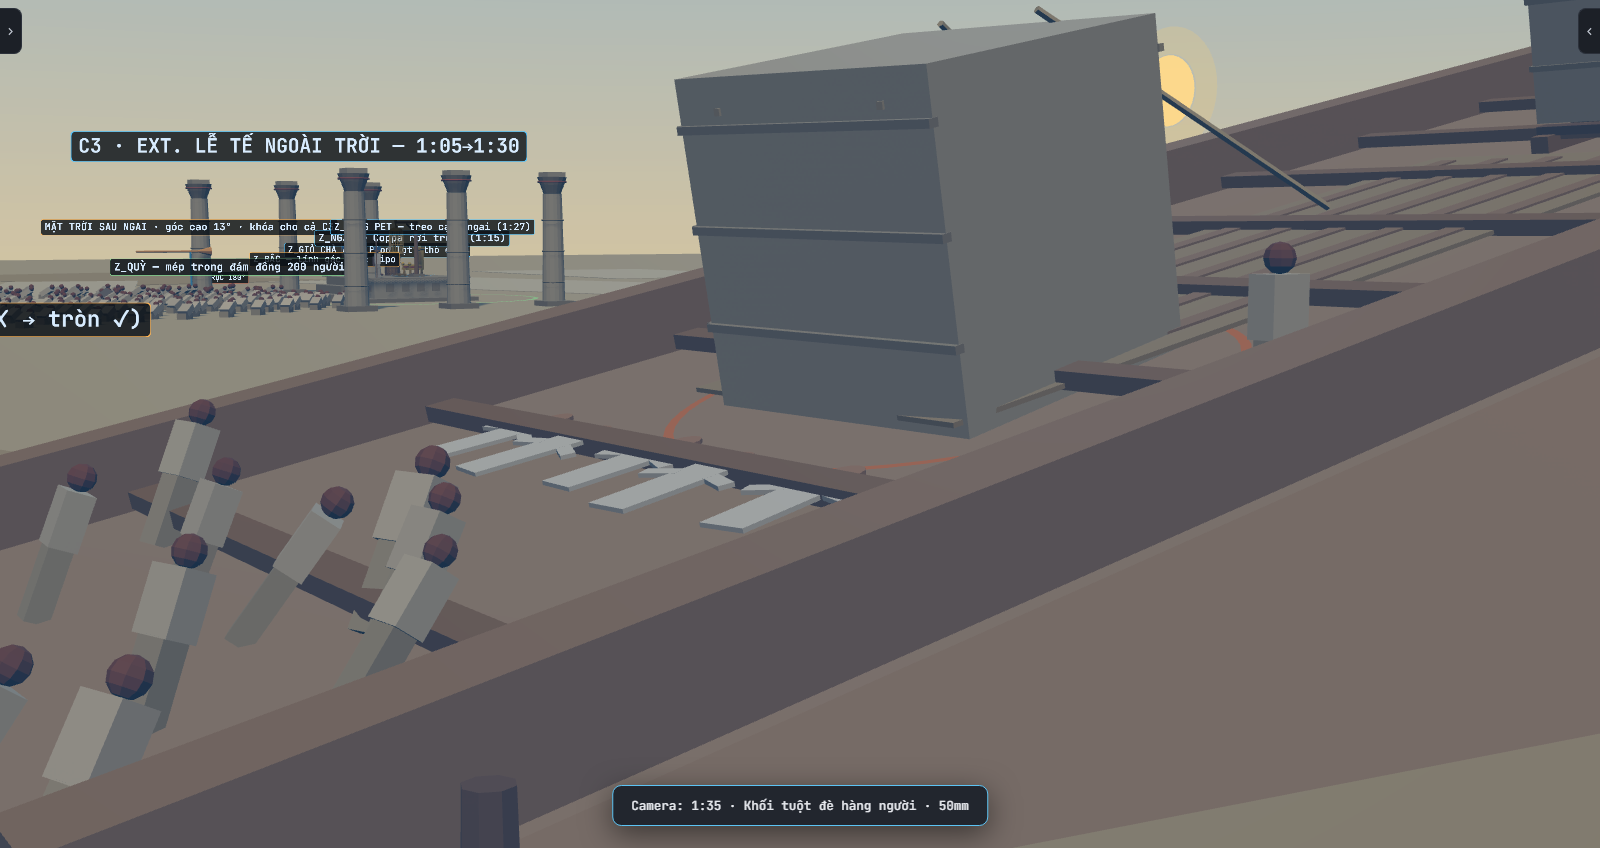
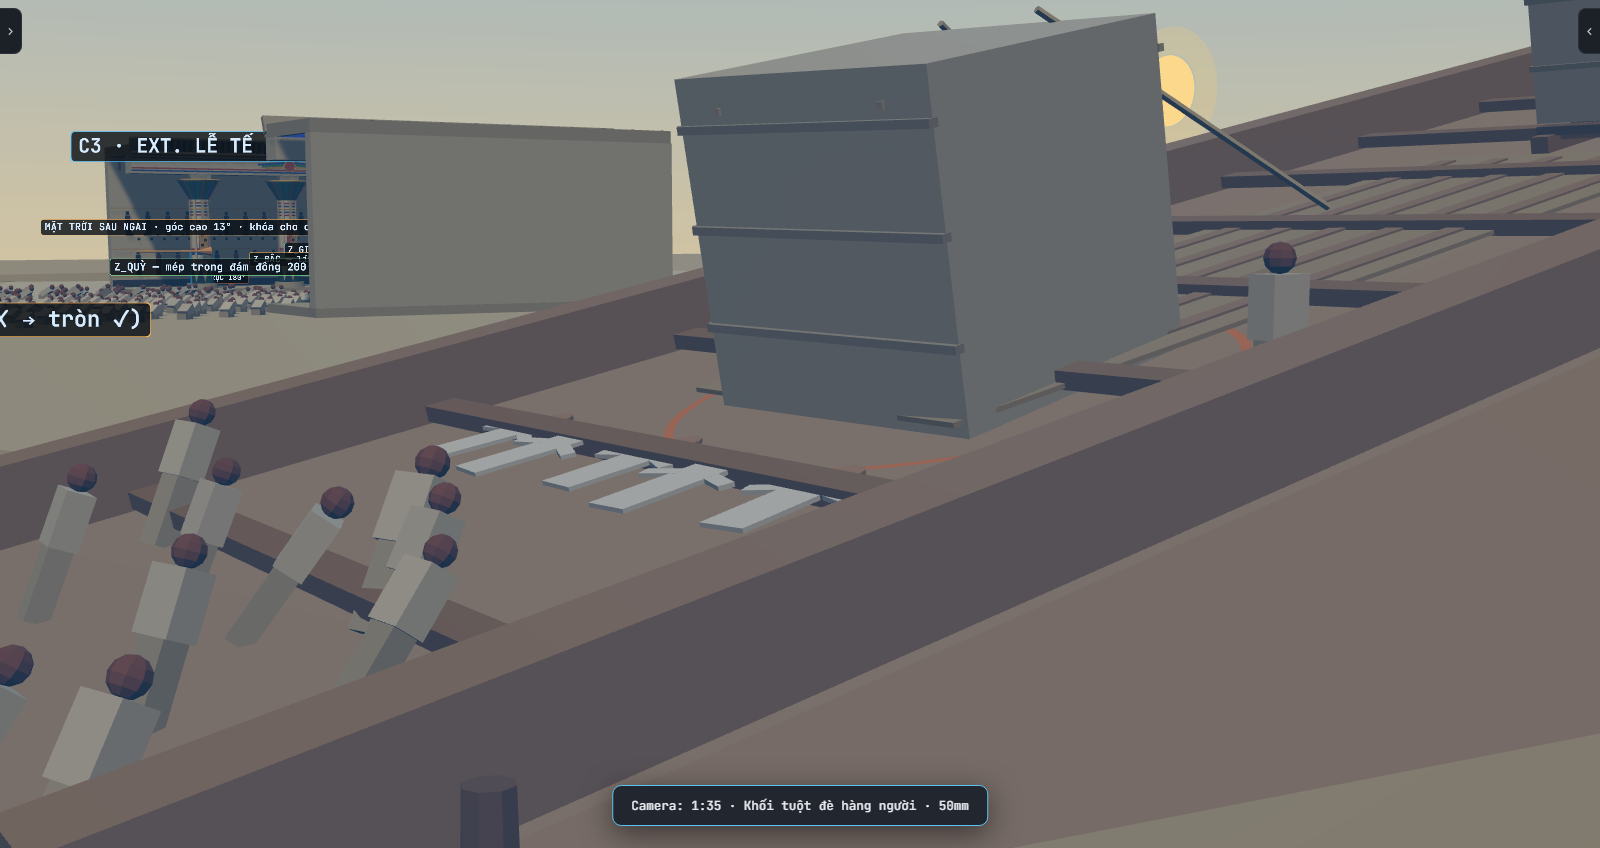
C3: hanh lang cot co mai kieu den Ai Cap thoi thinh thay cho hang cot tro troi
Hang 3 cot dung tro troi la hinh anh PHE TICH (mai va dam da sap). Canh le
te dien ra luc Ai Cap dang thinh nen doi thanh hanh lang cot (portico) hai
ben san te, san giua van LO THIEN -> mat troi sau ngai va anh nguoc sang
cua Coppa giu nguyen.

Moi ben (8 phan co ten, tach/tat rieng duoc):
- Nen hanh lang + bac xuong san
- 3 cot papyrus: tron da o chan, than bo coi 8 song doc, be la nhon om
  chan son xanh la/xanh lam, dai mau buoc bo, o cartouche vang vien do co
  chu tuong hinh huong ra san, dau cot papyrus NO LOE (xanh la, gan son,
  vanh vang), khoi do vuong
- Dam da noi dau cot, dai son + dia mat troi co canh va hai ran uraeus
- Go cornice lom kieu Ai Cap: go tron + mai hat nghieng, soc la doc
- Mai da phang lat tam + tran son xanh rac sao vang 8 canh (son tu sang de
  nhin tu duoi len van doc duoc)
- Tuong sau: chan tuong den, dien kheker, hai tang phu dieu doan nguoi dang
  le + hang chu tuong hinh
Ben phai dat ry = pi. Chi tiet lap lai dung InstancedMesh: 127 lenh ve moi
ben. Muon canh phe tich: tach phan "Mai da" ra roi xoa.

Changed region(s): [[0.0625, 0.1226, 0.4375, 0.3986]]

diff --git a/jenny-pixel-studio.html b/jenny-pixel-studio.html
@@ -3095,22 +3095,143 @@ function buildCagePost(){
 }
 
 // một hàng 3 cột đá tế (cao 7.5 m, đầu cột papyrus)
+/* ── HÀNH LANG CỘT (portico) kiểu đền Ai Cập thời thịnh — một bên sân tế ──
+   Cột Ai Cập là cột CHỊU LỰC: trên đầu có dầm đá ngang, trên dầm lát mái đá PHẲNG.
+   Cột trơ trọi chỉ là phế tích sau khi mái sập. Mỗi hành lang: nền + 3 cột papyrus
+   nở loe (sơn màu) + dầm có đĩa mặt trời có cánh + gờ cornice lõm + mái đá phẳng
+   trần sơn xanh rắc sao vàng + tường sau có phù điêu. Sân giữa để LỘ THIÊN.
+   Hệ trục: hàng cột dọc Z tại x=0, phía SÂN là +X, phía NGOÀI (tường sau) là -X.
+   Bên phải sân thì đặt ry = π. Mỗi phần là nhóm có tên → tách/tắt riêng được.     */
+const PT={stone:'#dccda7',stone2:'#c4b48d',stone3:'#a99873',cream:'#efe4c8',
+  blue:'#2e5aa8',red:'#b3452f',green:'#3f8a5a',ochre:'#d9a93a',ceil:'#1d3a78',dark:'#3a3226'};
+// nhiều mảnh nhỏ giống nhau → một InstancedMesh (một lệnh vẽ)
+function instParts(geo,items,defColor,basic){
+  const im=new THREE.InstancedMesh(geo,basic?new THREE.MeshBasicMaterial({color:'#ffffff'}):mat(defColor||'#ffffff'),items.length);
+  const m=new THREE.Matrix4(),q=new THREE.Quaternion(),e=new THREE.Euler(),col=new THREE.Color();
+  items.forEach((it,i)=>{
+    e.set(...(it.r||[0,0,0]));q.setFromEuler(e);
+    m.compose(new THREE.Vector3(...it.p),q,new THREE.Vector3(...(it.s||[1,1,1])));im.setMatrixAt(i,m);
+    col.set(it.c||defColor||'#ffffff');im.setColorAt(i,col);
+  });
+  im.instanceMatrix.needsUpdate=true;if(im.instanceColor)im.instanceColor.needsUpdate=true;
+  im.castShadow=true;im.receiveShadow=true;return im;
+}
+const PT_Y0=.5, PT_SHAFT=5.6, PT_CAP=1.3;            // nền 0.5 · thân 5.6 · đầu cột 1.3
+const PT_TOP=PT_Y0+.35+PT_SHAFT+PT_CAP+.35;          // mặt khối đỡ = chân dầm (8.1 m)
+function papyrusColumn(){
+  const c=new THREE.Group();
+  const y0=PT_Y0, ys=y0+.35, yc=ys+PT_SHAFT;
+  // chân cột: trống đá tròn thấp
+  const base=cyl(.98,1.02,.35,PT.stone2,20);base.position.y=y0+.175;c.add(base);
+  // thân: bó thân cói — lõi thon + 8 sống dọc
+  const core=cyl(.56,.66,PT_SHAFT,PT.cream,16);core.position.y=ys+PT_SHAFT/2;c.add(core);
+  const ribs=[];for(let k=0;k<8;k++){const a=k/8*Math.PI*2;ribs.push({p:[Math.cos(a)*.6,ys+PT_SHAFT/2,Math.sin(a)*.6],r:[0,-a,0],c:k%2?PT.cream:PT.stone});}
+  c.add(instParts(new THREE.BoxGeometry(.16,PT_SHAFT,.16),ribs,PT.cream));
+  // bẹ lá nhọn ôm chân thân (nét đặc trưng cột papyrus), sơn xanh lá / xanh lam
+  const sep=[];for(let k=0;k<8;k++){const a=(k+.5)/8*Math.PI*2;sep.push({p:[Math.cos(a)*.7,ys+.6,Math.sin(a)*.7],r:[0,-a+Math.PI/2,0],s:[1,1,.28],c:k%2?PT.green:PT.blue});}
+  c.add(instParts(new THREE.ConeGeometry(.3,1.2,4),sep,PT.green));
+  // dải màu buộc bó cói: 2 dải giữa thân + 5 vòng dưới đầu cột
+  [[ys+2.0,PT.blue],[ys+2.25,PT.red],[ys+3.9,PT.red],[ys+4.15,PT.blue]].forEach(([y,col])=>{const b=cyl(.67,.67,.2,col,18);b.position.y=y;c.add(b);});
+  [PT.red,PT.blue,PT.ochre,PT.blue,PT.red].forEach((col,k)=>{const t=torus3(.6,.06,col,18);t.position.y=yc-.22-k*.2;c.add(t);});
+  // ô cartouche hướng ra sân (+X): khung vàng viền đỏ + chữ tượng hình
+  const cart=new THREE.Group();cart.position.set(.69,ys+3.05,0);
+  const cf=box(.06,1.5,.56,PT.ochre);cart.add(cf);
+  const cr=box(.07,1.56,.62,PT.red);cr.position.x=-.01;cart.add(cr);
+  const gl=[];for(let k=0;k<4;k++)gl.push({p:[.04,.5-k*.33,(k%2?.1:-.1)],c:PT.dark});
+  cart.add(instParts(new THREE.BoxGeometry(.03,.18,.18),gl,PT.dark));
+  c.add(cart);
+  // ĐẦU CỘT papyrus NỞ LOE (hình chuông): xanh lá, gân sơn xanh lam/đỏ, vành vàng
+  const bell=cyl(1.38,.6,PT_CAP,PT.green,20);bell.position.y=yc+PT_CAP/2;c.add(bell);
+  // gân sơn nghiêng theo độ loe của chuông
+  const veinG=new THREE.Group();
+  for(let k=0;k<12;k++){
+    const a=k/12*Math.PI*2;
+    const rib=box(.07,PT_CAP*1.08,.1,k%2?PT.blue:PT.red);
+    const arm=new THREE.Group();arm.rotation.y=-a;
+    rib.position.set(.99,0,0);rib.rotation.z=-Math.atan2(.78,PT_CAP);arm.add(rib);
+    arm.position.y=yc+PT_CAP/2;veinG.add(arm);
+  }
+  c.add(veinG);
+  const rim=torus3(1.36,.07,PT.ochre,26);rim.position.y=yc+PT_CAP-.02;c.add(rim);
+  // khối đỡ vuông (abacus) — dầm gác lên đây
+  const ab=box(1.3,.35,1.3,PT.stone);ab.position.y=yc+PT_CAP+.175;c.add(ab);
+  return c;
+}
 function buildColumnRow(){
   const g=new THREE.Group();
-  [-6,0,6].forEach(z=>{
-    const c=new THREE.Group();
-    c.add(bx(1.7,.32,1.7,EG.stone2,0,0,0));
-    const sh=cyl(.55,.66,6.2,EG.stone,16);sh.position.y=3.42;c.add(sh);
-    // vòng chữ tượng hình
-    [1.4,3.2,5.0].forEach(y=>{const r=torus3(.62,.05,EG.stone2,20);r.position.y=y;c.add(r);});
-    const cap=cyl(.86,.5,.95,EG.stone2,16);cap.position.y=7.0;c.add(cap);
-    const ab=box(1.15,.28,1.15,EG.stone);ab.position.y=7.62;c.add(ab);
-    // sơn màu đỉnh cột
-    const band=torus3(.8,.06,EG.red,20);band.position.y=7.2;c.add(band);
-    c.position.z=z;
-    g.add(c);
+  const Zs=[-6,0,6],L=20;
+  const sub=label=>{const s2=new THREE.Group();s2.userData.partLabel=label;g.add(s2);return s2;};
+  const R=rnd(307);
+
+  // 1. NỀN hành lang (stylobate) + bậc xuống sân
+  const base=sub('Nền hành lang + bậc xuống sân');
+  base.add(bx(7.4,PT_Y0,L+1,PT.stone2,-2.4,0,0));
+  base.add(bx(1.0,PT_Y0*.5,L-2,PT.stone,1.8,0,0));
+
+  // 2. BA CỘT papyrus
+  Zs.forEach((z,k)=>{const c=sub('Cột papyrus '+(k+1)+' (sơn màu)');const col=papyrusColumn();c.add(col);c.position.z=z;});
+
+  // 3. DẦM ĐÁ nối đầu cột + dải sơn + ĐĨA MẶT TRỜI CÓ CÁNH ở giữa, mặt hướng ra sân
+  const arch=sub('Dầm đá + đĩa mặt trời có cánh');
+  const AH=1.2, ay=PT_TOP;
+  arch.add(bx(1.5,AH,L+1,PT.stone,0,ay,0));
+  [[ay+.2,PT.blue],[ay+.36,PT.red],[ay+AH-.16,PT.blue]].forEach(([y,col])=>{const st=box(.04,.1,L+1,col);st.position.set(.77,y,0);arch.add(st);});
+  const sun=new THREE.Group();sun.position.set(.8,ay+AH*.55,0);
+  const disc=gmesh(new THREE.CylinderGeometry(.34,.34,.08,20),PT.red);disc.rotation.z=Math.PI/2;sun.add(disc);
+  const discRim=torus3(.36,.05,PT.ochre,20);discRim.rotation.set(0,Math.PI/2,0);sun.add(discRim);
+  [-1,1].forEach(sd=>{
+    for(let k=0;k<3;k++){
+      const w=box(.05,.14,1.9-k*.35,[PT.blue,PT.green,PT.ochre][k]);
+      w.position.set(0,.14-k*.14,sd*(1.25-k*.1));w.rotation.x=sd*.08;sun.add(w);
+    }
+    const ur=cone(.07,.34,PT.ochre,6);ur.position.set(.02,-.1,sd*.42);sun.add(ur);   // rắn uraeus hai bên đĩa
   });
-  g.userData.h=7.76;
+  arch.add(sun);
+
+  // 4. GỜ CORNICE LÕM kiểu Ai Cập: gờ tròn (torus) + mái hắt nghiêng ra, sơn sọc lá dọc
+  const corn=sub('Gờ cornice lõm (sọc lá)');
+  const torus=cyl(.14,.14,L+1,PT.stone,10);torus.rotation.x=Math.PI/2;torus.position.set(.78,ay+AH+.12,0);corn.add(torus);
+  const lip=new THREE.Group();lip.position.set(.6,ay+AH+.24,0);lip.rotation.z=-.42;
+  lip.add(bx(.3,.95,L+1.2,PT.stone2,0,0,0));
+  const leaf=[];for(let k=0;k<Math.round(L*2.4);k++)leaf.push({p:[.16,.48,-L/2-.4+k/2.4],c:[PT.blue,PT.red,PT.green][k%3]});
+  lip.add(instParts(new THREE.BoxGeometry(.02,.8,.22),leaf,PT.blue));
+  corn.add(lip);
+
+  // 5. MÁI ĐÁ PHẲNG: tấm lát từ dầm vào tường sau; TRẦN sơn xanh rắc SAO VÀNG (nhìn từ dưới lên)
+  const roof=sub('Mái đá phẳng + trần sao');
+  const RX0=-5.9,RX1=.76,RW=RX1-RX0,ry0=ay+AH;
+  roof.add(bx(RW,.7,L+1,PT.stone2,(RX0+RX1)/2,ry0,0));
+  const slabs=[];for(let k=0;k<11;k++)slabs.push({p:[(RX0+RX1)/2,ry0+.71,-L/2+(k+.5)*(L+1)/11],c:k%2?PT.stone3:PT.stone2});
+  roof.add(instParts(new THREE.BoxGeometry(RW-.1,.03,.08),slabs,PT.stone3));   // ron giữa các tấm
+  const ceil=new THREE.Mesh(new THREE.PlaneGeometry(RW-1.6,L+.6),new THREE.MeshBasicMaterial({color:'#24468e',side:THREE.DoubleSide}));
+  ceil.rotation.x=Math.PI/2;ceil.position.set((RX0+RX1)/2-.4,ry0-.02,0);roof.add(ceil);
+  const stars=[];for(let k=0;k<70;k++)stars.push({p:[RX0+.9+R()*(RW-2.4),ry0-.035,-L/2+.4+R()*(L-.4)],r:[0,R()*3,0],c:PT.ochre});
+  roof.add(instParts(new THREE.BoxGeometry(.22,.01,.22),stars,PT.ochre,true));
+  roof.add(instParts(new THREE.BoxGeometry(.22,.01,.22),stars.map(t=>({p:t.p,r:[0,(t.r[1]||0)+.785,0],c:PT.ochre})),PT.ochre,true));   // hai ô vuông chéo = sao 8 cánh   // hai ô vuông chéo = sao 8 cánh
+
+  // 6. TƯỜNG SAU (phía ngoài) + PHÙ ĐIÊU sơn màu mặt hướng vào hành lang
+  const wall=sub('Tường sau + phù điêu');
+  const WX=-5.6,WH=ry0-PT_Y0;
+  wall.add(bx(.8,WH,L+1,PT.stone,WX,PT_Y0,0));
+  // chân tường sơn đen-vàng, diềm "kheker" trên đỉnh
+  wall.add(bx(.04,.5,L+1,PT.dark,WX+.42,PT_Y0,0));
+  const kh=[];for(let k=0;k<Math.round(L*2);k++)kh.push({p:[WX+.43,ry0-.55,-L/2+.25+k/2],c:k%2?PT.ochre:PT.blue});
+  wall.add(instParts(new THREE.BoxGeometry(.03,.6,.2),kh,PT.ochre));
+  // hai tầng phù điêu: đoàn người dâng lễ (dáng đứng cao gầy) + hàng chữ tượng hình
+  const fig=[];
+  for(let row=0;row<2;row++)for(let k=0;k<14;k++){
+    const z=-L/2+1.2+k*1.35+(row?.6:0), y=PT_Y0+1.5+row*2.7;
+    fig.push({p:[WX+.43,y,z],s:[1,1,1],c:[PT.red,PT.blue,PT.green,PT.ochre][(k+row)%4]});
+  }
+  wall.add(instParts(new THREE.BoxGeometry(.03,1.4,.34),fig,PT.red));
+  const heads=fig.map(f=>({p:[f.p[0],f.p[1]+.86,f.p[2]],c:PT.dark}));
+  wall.add(instParts(new THREE.BoxGeometry(.03,.26,.22),heads,PT.dark));
+  const hier=[];for(let k=0;k<44;k++)hier.push({p:[WX+.43,PT_Y0+3.3+(k%2)*.3,-L/2+.6+k*.43],c:PT.dark});
+  wall.add(instParts(new THREE.BoxGeometry(.03,.18,.18),hier,PT.dark));
+  // vạch tầng phù điêu
+  [PT_Y0+.72,PT_Y0+2.6,PT_Y0+4.2,PT_Y0+5.4].forEach(y=>{const ln=box(.03,.06,L+1,PT.ochre);ln.position.set(WX+.43,y,0);wall.add(ln);});
+
+  g.userData.h=ry0+.9;
   return g;
 }
 
@@ -4898,7 +5019,7 @@ regPart('c3_platform','Bục tế 8×6 cao 1.5',buildPlatform);
 regPart('c3_throne','Ngai vàng (ghế 1.2 m)',buildThrone);
 regPart('c3_basket','Giỏ chà là 1.2 m',buildBasket);
 regPart('c3_cagepost','Cột + lồng chim vàng PET',buildCagePost);
-regPart('c3_columns','Hàng 3 cột đá tế',buildColumnRow);
+regPart('c3_columns','Hành lang cột có mái (portico)',buildColumnRow);
 regPart('c3_crowd','Đám đông quỳ (200)',buildCrowdKneel);
 regPart('c3_guards','2 lính gác cầm giáo',buildGuards);
 regPart('c3_sun','Khóa hướng mặt trời C3',buildSunLock);
@@ -4971,8 +5092,8 @@ const C3_PARTS=[
   {k:'c3_throne',   p:[-45,1.5,-1.2]},
   {k:'c3_basket',   p:[-46.9,1.5,-0.6], l:'Giỏ chà là (trái ngai)'},
   {k:'c3_cagepost', p:[-43.0,1.5,-0.6], l:'Lồng PET (phải ngai)'},
-  {k:'c3_columns',  p:[-59,0,2], l:'Cột đá tế — hàng trái'},
-  {k:'c3_columns',  p:[-31,0,2], l:'Cột đá tế — hàng phải'},
+  {k:'c3_columns',  p:[-59,0,2], l:'Hành lang cột — bên trái sân'},
+  {k:'c3_columns',  p:[-31,0,2], ry:Math.PI, l:'Hành lang cột — bên phải sân'},
   {k:'c3_guards',   p:[-45,1.5,2.2]},
   {k:'c3_crowd',    p:[-45,0,0]},
   {k:'c3_sun',      p:[-45,0,0]},
